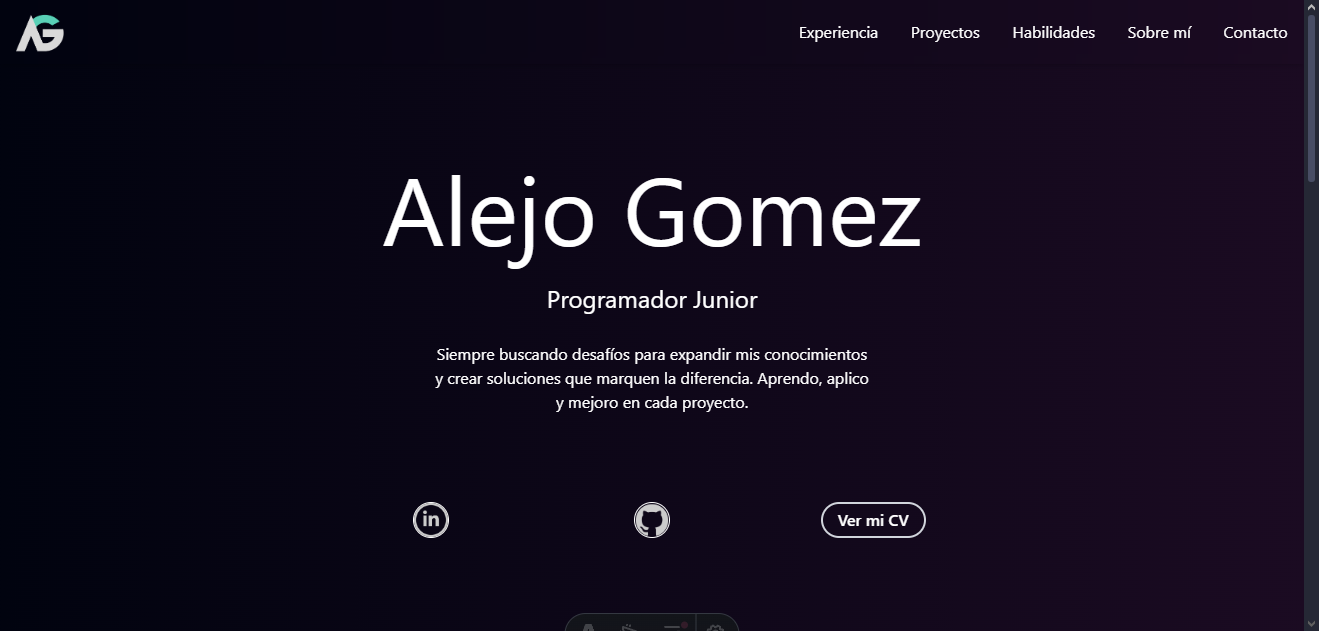
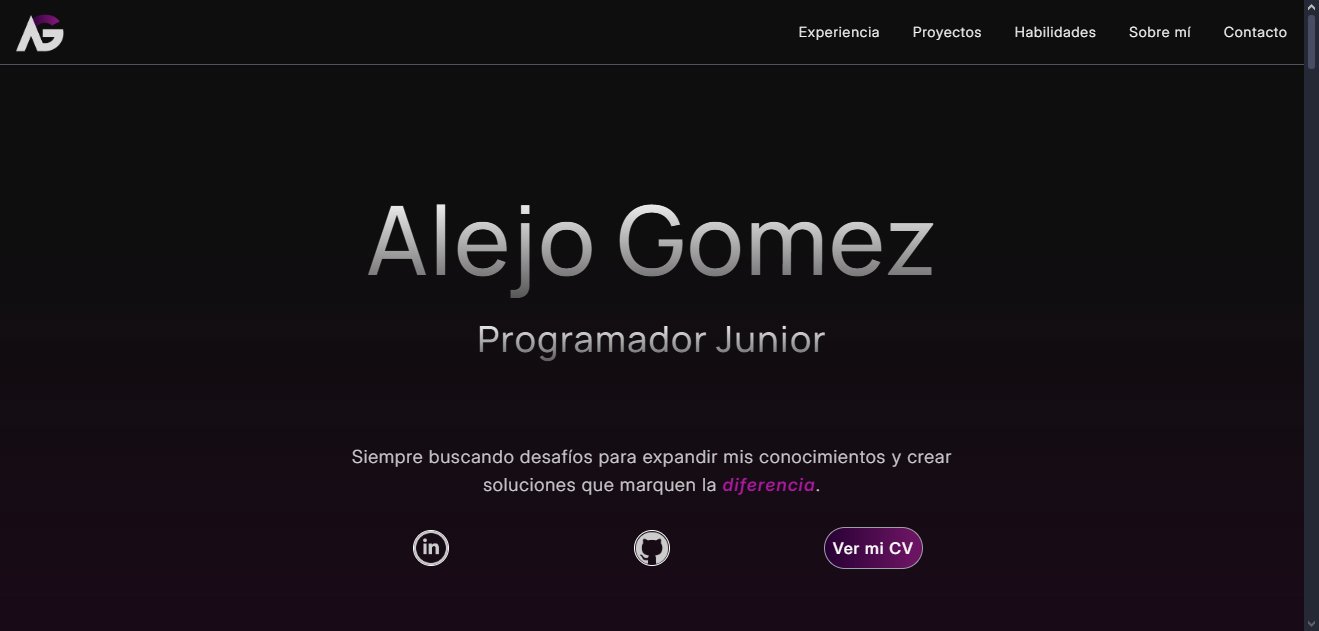
V3

diff --git a/Portfolio/src/styles/global.css b/Portfolio/src/styles/global.css
@@ -18,7 +18,6 @@ html, body {
   font-weight: 300;
   letter-spacing: 1px;
   background:rgb(14, 14, 14);
-
 }
 
 #project-container {
@@ -76,4 +75,13 @@ h1,h2{
   color: transparent;
 
 }
-
+.gradientBackground{
+  background: #270034;
+  background: linear-gradient(90deg, rgba(39, 0, 52, 1) 0%, rgb(107, 20, 98) 90%);
+}
+.gradientText{
+  color: #cf1cc0;
+}
+main{
+  background: linear-gradient(to bottom, transparent 3%, rgb(46, 4, 42) 20%, transparent 30%,transparent 40%, rgb(46, 4, 42) 60%,transparent 90%);
+}

diff --git a/Portfolio/src/components/Molecules/Project.tsx b/Portfolio/src/components/Molecules/Project.tsx
@@ -49,7 +49,7 @@ export function Project({ project }: ProjectProps) {
     >
       <h3 className="text-2xl">{title}</h3>
 
-      <img src={imageUrl} alt={title} className="w-100 h-40 sm:h-50 my-4 m-auto" />
+      <img src={imageUrl} alt={title} className="w-100 h-35 sm:h-50 my-4 m-auto" />
 
       <div className="flex w-full justify-around mb-4">
         {techs.map((tech, index) => (
